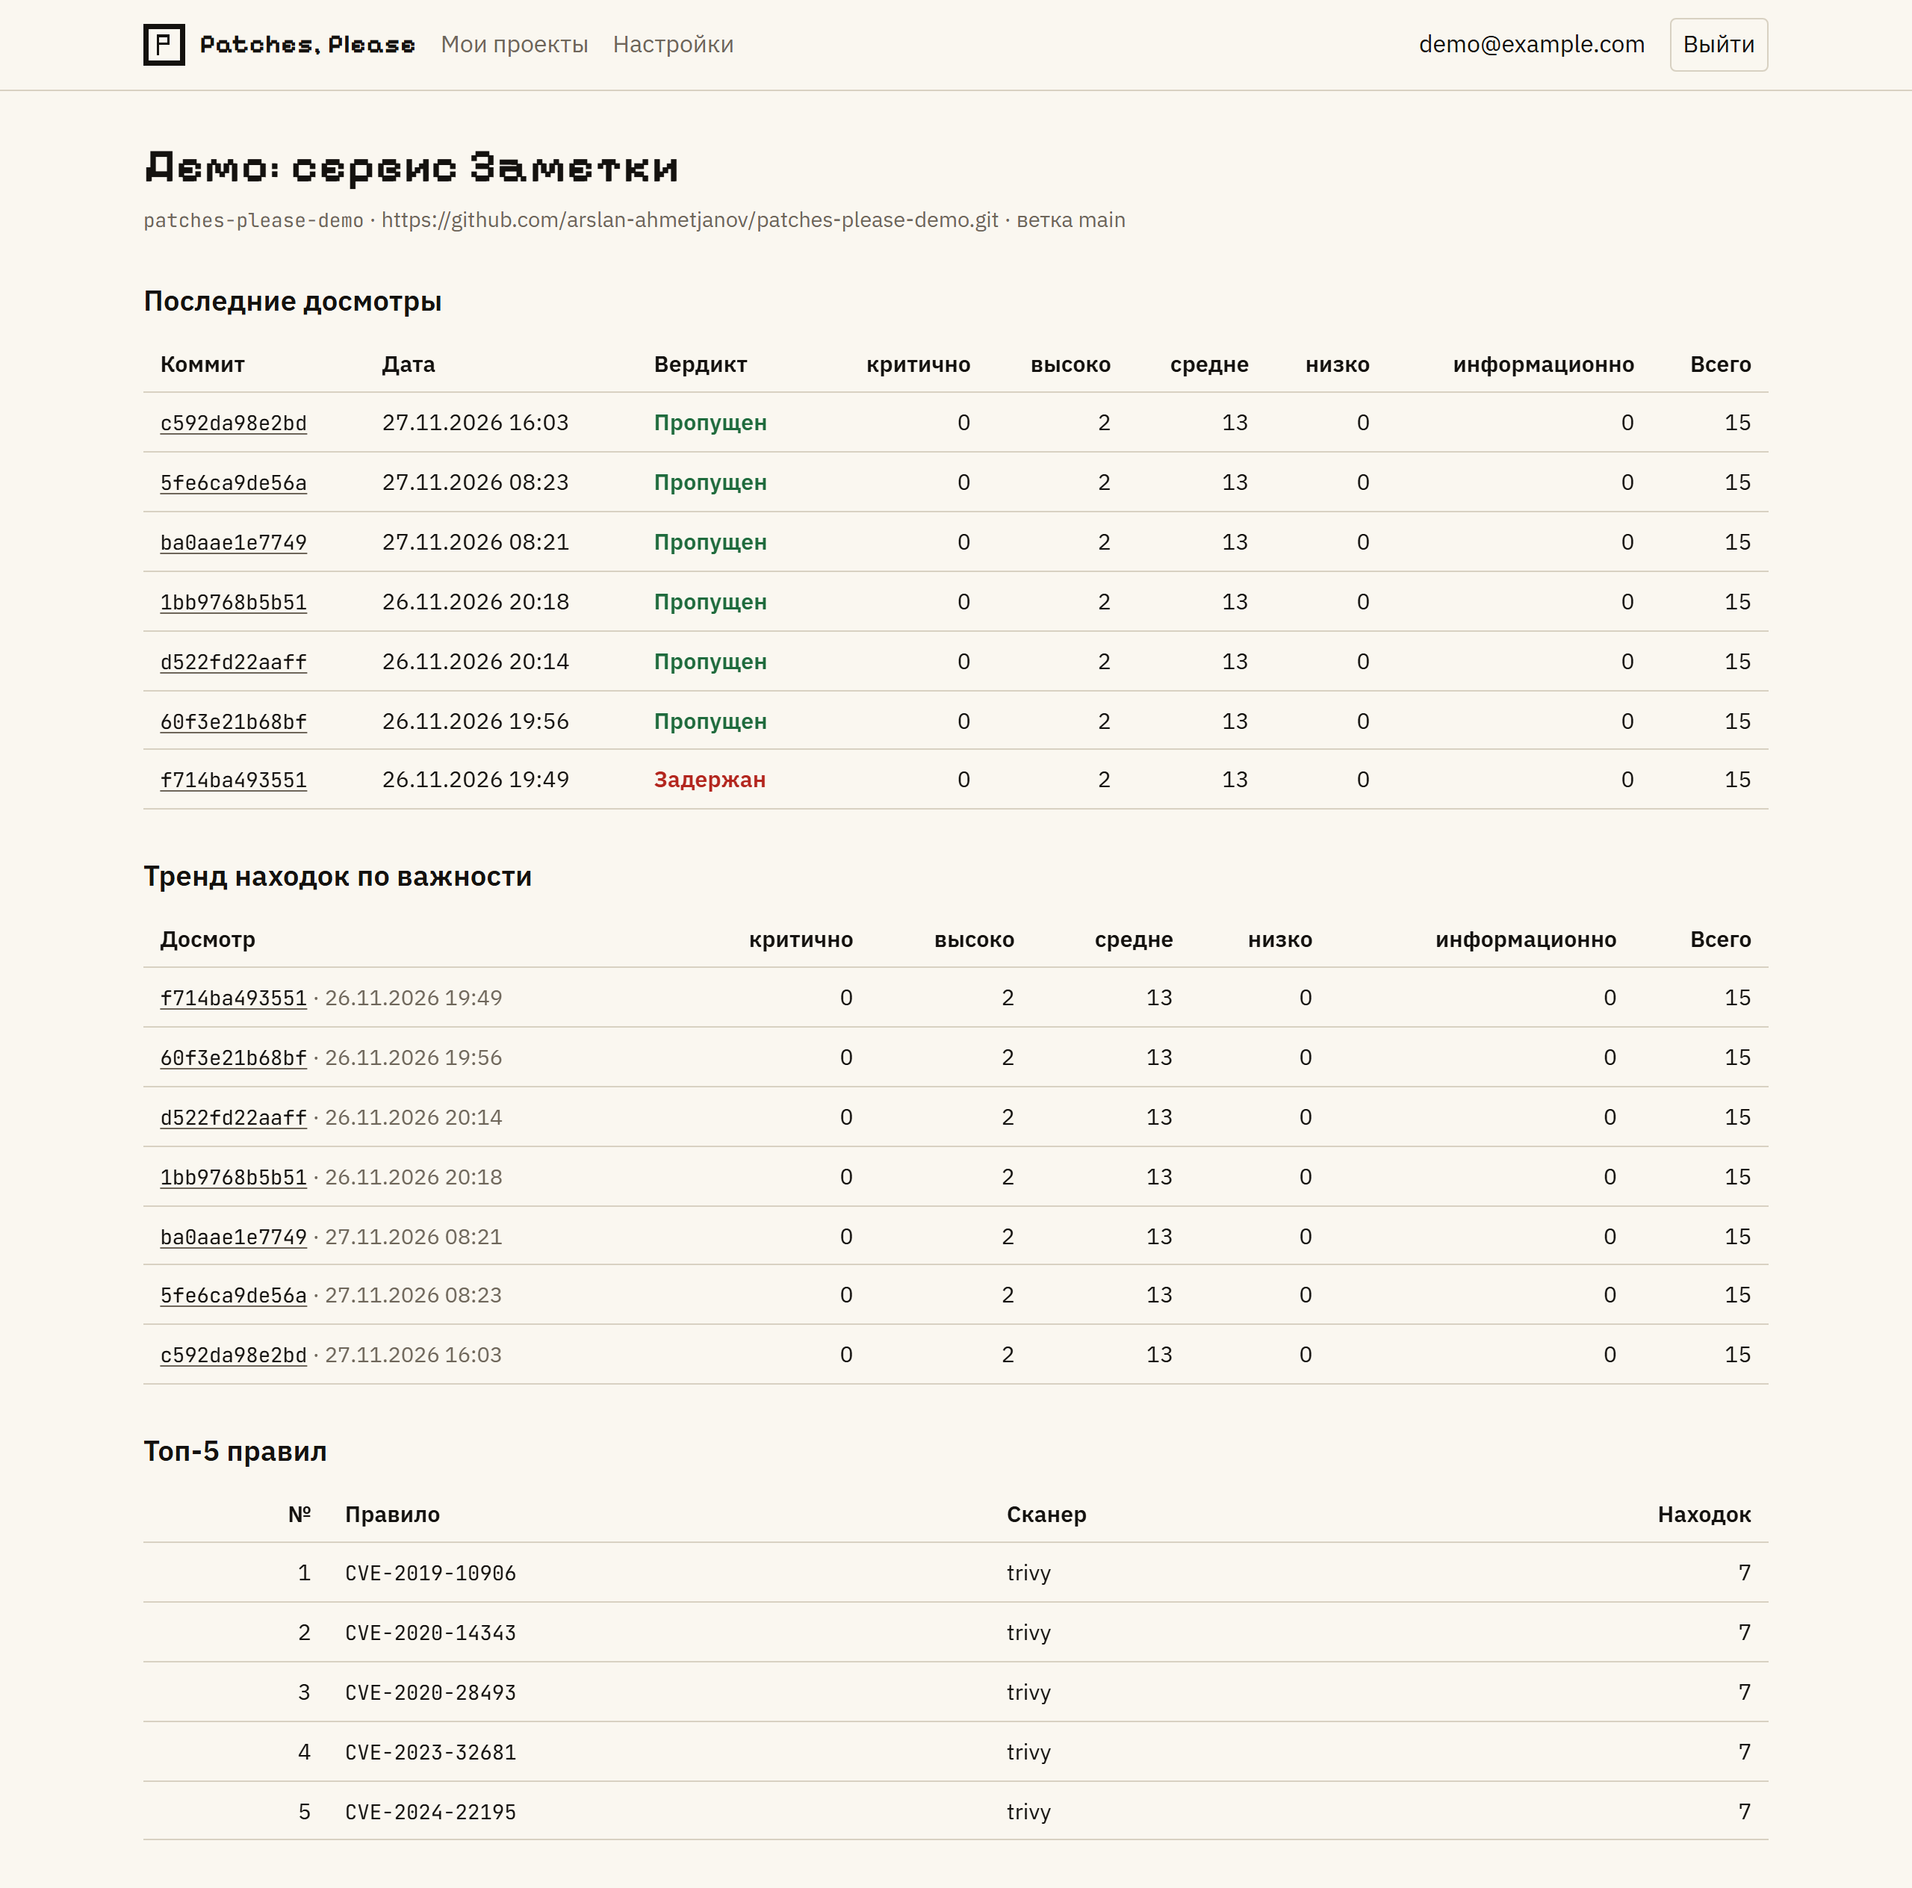
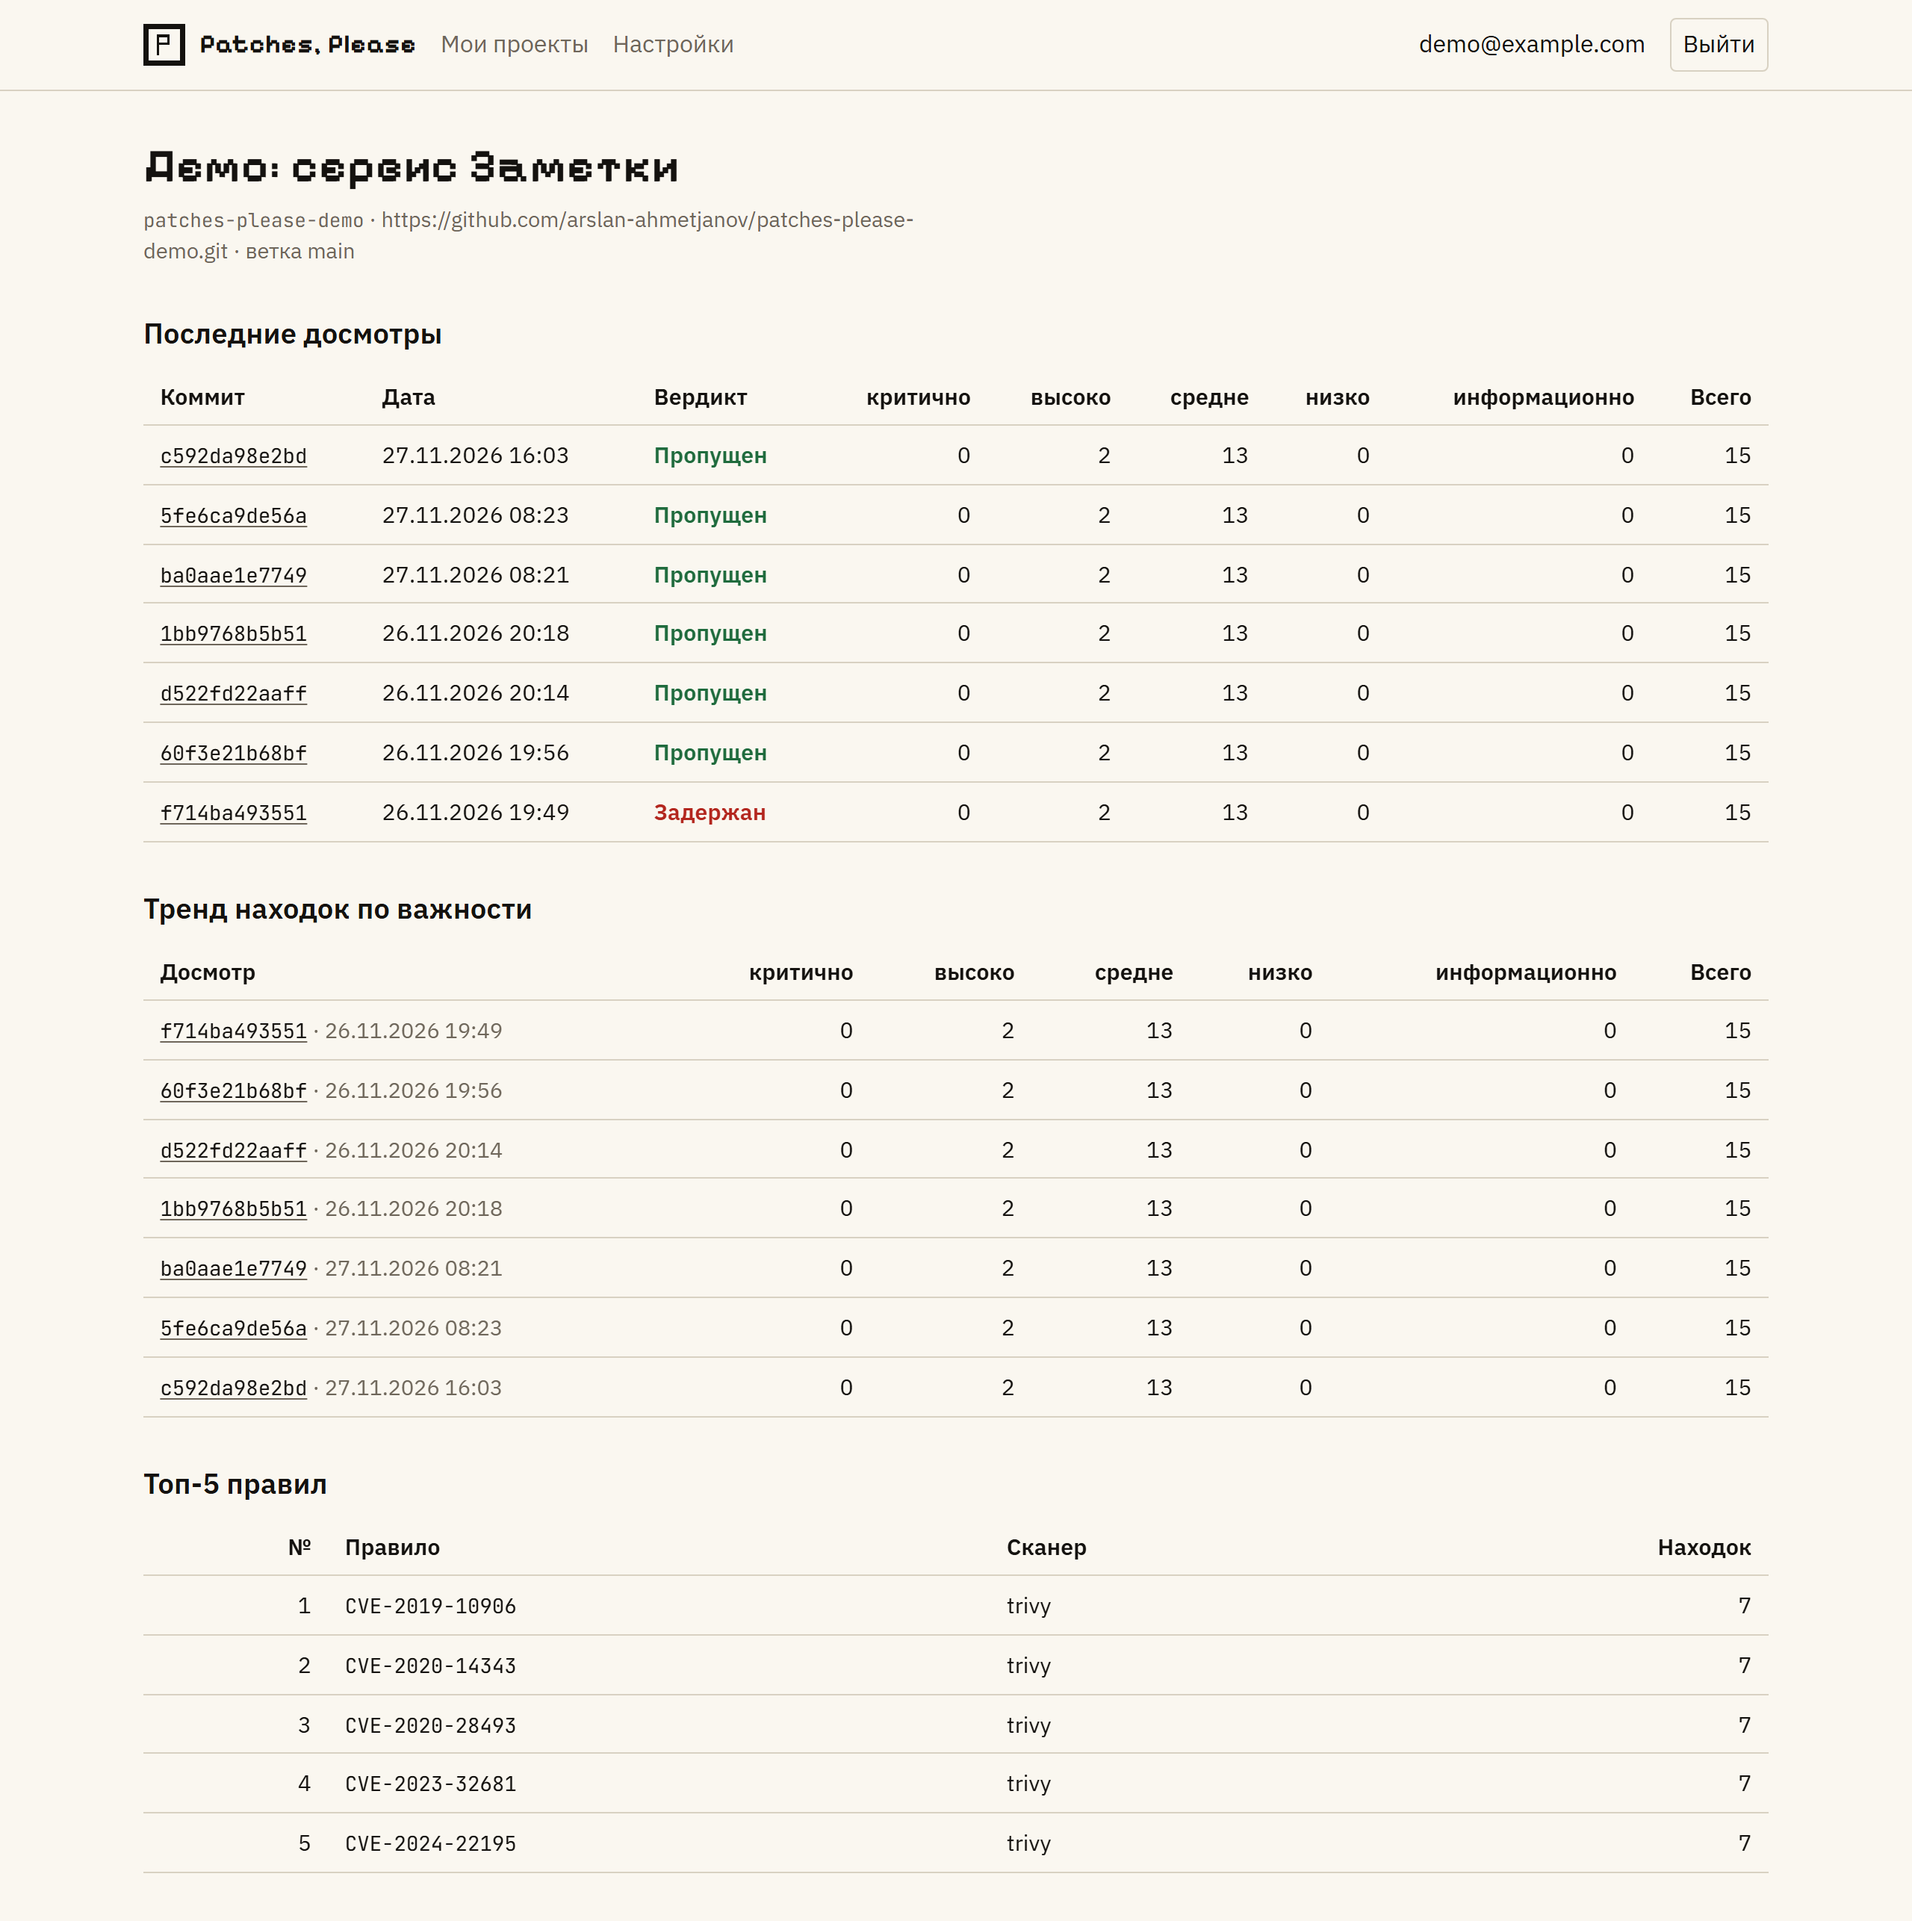
fix: строка текста не растягивается на всю ширину
Абзацы, списки и значения определений ограничены 66 знаками: на широком
мониторе строка больше не идёт от края до края, глаз не теряет начало
следующей. В приложении ограничения не было совсем, там текст занимал все
1088 px колонки.

Заголовки, таблицы, снимки и код живут по своим правилам: таблицы на всю
ширину, блоки кода прокручиваются.

Скриншоты пересняты, WebP для сайта обновлены.

diff --git a/patches_please/templates/static/brand.css b/patches_please/templates/static/brand.css
@@ -39,7 +39,8 @@
   --font-mono: "JetBrains Mono", ui-monospace, "Cascadia Mono", Consolas, monospace;
 
   --radius: 0.25rem;
-  --measure: 72ch;
+  /* Строка текста: 66 знаков. Дальше глаз теряет начало следующей строки. */
+  --measure: 66ch;
 }
 
 html {
@@ -92,6 +93,18 @@ code {
   font-family: var(--font-mono);
   font-size: 0.9em;
   overflow-wrap: break-word;
+}
+
+/* Текстовая колонка уже страницы: на широком мониторе строка не растягивается
+   на весь экран. Таблицы, снимки и код живут по своим правилам. */
+p,
+li,
+dd {
+  max-width: var(--measure);
+}
+
+p {
+  text-wrap: pretty;
 }
 
 /* Логотип и название: пиксельный штамп плюс текст, на всех страницах. */
